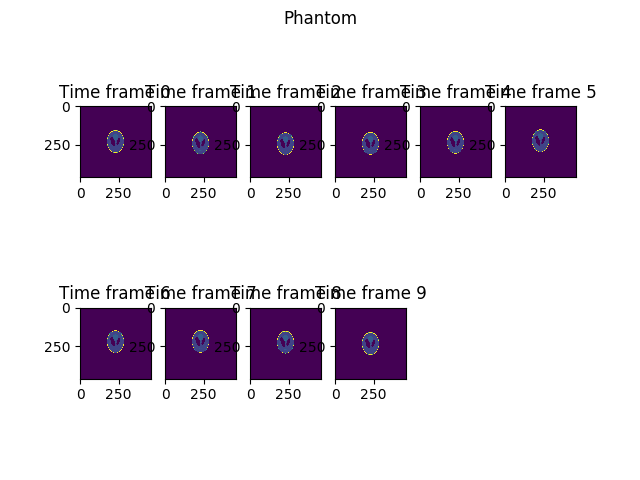
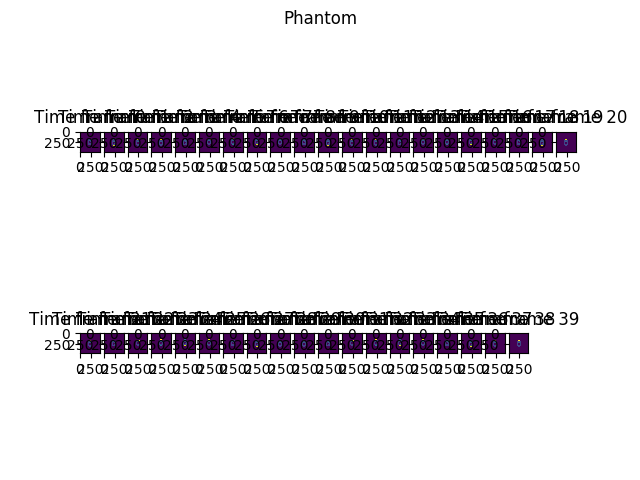
Ons model en gaten werken allebei!

Changed region(s): [[0.0625, 0.1562, 1.0, 0.4375], [0.0625, 0.5938, 0.9062, 0.8438]]

diff --git a/STIROefeningManon/MotionModelProjSpaceNoSTIR/GatingNoSTIR.py b/STIROefeningManon/MotionModelProjSpaceNoSTIR/GatingNoSTIR.py
@@ -1,0 +1,113 @@
+import math
+import matplotlib.pyplot as plt
+import numpy as np
+from skimage.transform import iradon, radon
+import ManonsFunctions as mf 
+import scipy as sp
+
+
+#_________________________CONFIGURATION_______________________________
+#phantom = 'Block'
+phantom = 'Shepp-Logan' 
+noise = False
+#noise = True
+#motion = 'Step' 
+motion = 'Sine'
+stationary = True 
+#stationary = False # Only possible for sinusoidal motion 
+
+nIt = 10
+trueShiftAmplitude = 15 # Kan niet alle waardes aannemen (niet alle shifts worden geprobeerd) + LET OP: kan niet groter zijn dan de lengte van het plaatje (kan de code niet aan) 
+trueOffset = 5
+numFigures = 0 
+duration = 60 # in seconds
+if (motion == 'Step'): nFrames = 2
+else: nFrames = 40
+noiseLevel = 10
+gating = True
+
+dir = './Figures/'
+figSaveDir = mf.make_figSaveDir(dir, motion, phantom, noise, stationary)
+figSaveDir += 'Gating/'
+
+mf.write_Configuration(figSaveDir, phantom, noise, motion, stationary, nIt, trueShiftAmplitude, trueOffset, duration, nFrames, gating)
+
+
+#_________________________MAKE PHANTOM_______________________________
+image2D = mf.make_Phantom(phantom, duration, noiseLevel)
+plt.figure(), plt.title('Original image'), plt.imshow(image2D, interpolation = None, vmin = 0, vmax = np.max(image2D)), plt.savefig(figSaveDir + 'Fig{}_TrueShift{}_phantom.png'.format(numFigures, trueShiftAmplitude)), plt.close()
+numFigures += 1
+
+
+#_________________________ADD MOTION_______________________________ 
+nonGatedPhantomList, nonGatedSurSignal, nonGatedShiftList = mf.move_Phantom(motion, nFrames, trueShiftAmplitude, trueOffset, image2D, stationary)
+
+
+#_________________________GATING_______________________________ 
+maxSurSignal = np.max(nonGatedSurSignal) 
+minSurSignal = np.min(nonGatedSurSignal)
+gateMin = minSurSignal
+gateMax = minSurSignal + 0.35*(maxSurSignal - minSurSignal)
+surSignal, phantomList, shiftList = mf.gating(nonGatedSurSignal, nonGatedPhantomList, nonGatedShiftList, gateMin, gateMax)
+
+# Visualization of gating 
+x = np.arange(0, len(nonGatedPhantomList), 0.1)
+plt.plot(range(len(nonGatedSurSignal)), nonGatedSurSignal, 'bo', label = 'Surrogate signal', markersize = 3), plt.title('Sinusoidal phantom shifts'), plt.xlabel('Time frame'), plt.ylabel('Shift')
+plt.plot(range(len(nonGatedShiftList)), nonGatedShiftList, 'ro', label = 'True motion', markersize = 3) 
+plt.axhline(y = gateMin, color = 'grey', label = 'Respiratory gating')
+plt.axhline(y = gateMax, color = 'grey')
+plt.axis([0, len(nonGatedPhantomList), -trueShiftAmplitude - 5, trueShiftAmplitude + trueOffset])
+plt.fill_between(x, gateMin, gateMax, color='grey', alpha='0.5')
+plt.legend(loc = 0), plt.savefig(figSaveDir + 'Fig{}_TrueShift{}_shiftList.png'.format(numFigures, trueShiftAmplitude)), plt.close()
+numFigures += 1 
+
+
+#_________________________MEASUREMENT_______________________________
+iAngles = np.linspace(0, 360, 120)[:-1]
+
+measList = []
+for iFrame in range(len(phantomList)):
+    meas = radon(phantomList[iFrame][0,:,:], iAngles) 
+    if (iFrame == 0): measNoNoise = meas
+    if (noise): 
+        meas = sp.random.poisson(meas)
+    if (iFrame == 0): measWithNoise = meas
+    measList.append(meas) 
+
+plt.subplot(1,2,1), plt.title('Without noise'), plt.imshow(measNoNoise, interpolation=None, vmin = 0, vmax = noiseLevel)
+plt.subplot(1,2,2), plt.title('With noise'), plt.imshow(measWithNoise, interpolation=None, vmin = 0, vmax = noiseLevel)
+plt.suptitle('Time Frame 1'), plt.savefig(figSaveDir + 'Fig{}_TrueShift{}_measurementsWithWithoutNoise.png'.format(numFigures, trueShiftAmplitude)), plt.close()
+numFigures += 1 
+
+
+#_________________________INITIAL GUESS_______________________________
+guess = np.ones(np.shape(phantomList[0]))[0,:,:]
+plt.figure(), plt.title('Initial guess'), plt.imshow(guess, interpolation = None, vmin = 0, vmax = np.max(image2D)), plt.savefig(figSaveDir + 'Fig{}_TrueShift{}_InitialGuess.png'.format(numFigures, trueShiftAmplitude)), plt.close() 
+numFigures += 1
+
+
+#_________________________NORMALIZATION_______________________________
+normSino = np.ones(np.shape(measList[0]))
+norm = iradon(normSino, iAngles, filter = None) # We willen nu geen ramp filter
+
+
+#_________________________NESTED EM LOOP_______________________________
+for iIt in range(nIt): 
+    for iFrame in range(len(surSignal)): 
+        guessSinogram = radon(guess, iAngles)
+        error = measList[iFrame]/guessSinogram 
+        error[np.isnan(error)] = 0
+        error[np.isinf(error)] = 0
+        error[error > 1E10] = 0;
+        error[error < 1E-10] = 0
+        errorBck = iradon(error, iAngles, filter = None) 
+        guess *= errorBck 
+    guess /= norm 
+    countIt = iIt+1 
+
+    plt.figure(), plt.title('Guess after {0} iteration(s)'.format(iIt+1)), plt.imshow(guess, interpolation = None, vmin = 0, vmax = np.max(image2D)), plt.savefig(figSaveDir + 'Fig{}_TrueShift{}_finalImage.png'.format(numFigures, trueShiftAmplitude)), plt.close()
+    numFigures += 1  
+
+plt.figure(), plt.subplot(1,2,1), plt.title('Original Image'), plt.imshow(image2D, interpolation=None, vmin = 0, vmax = np.max(image2D))
+plt.subplot(1,2,2), plt.title('Reconstructed Image'), plt.imshow(guess, interpolation=None, vmin = 0, vmax = np.max(image2D)), plt.savefig(figSaveDir + 'Fig{}_TrueShift{}_originalAndRecon.png'.format(numFigures, trueShiftAmplitude)), plt.close() 
+numFigures += 1 

diff --git a/STIROefeningManon/MotionModelProjSpaceNoSTIR/MotionModelProjSpaceNoSTIR.py b/STIROefeningManon/MotionModelProjSpaceNoSTIR/MotionModelProjSpaceNoSTIR.py
@@ -14,21 +14,23 @@ motion = 'Sine'
 stationary = True 
 #stationary = False # Only possible for sinusoidal motion 
 
-nIt = 30
+nIt = 10
 trueShiftAmplitude = 15 # Kan niet alle waardes aannemen (niet alle shifts worden geprobeerd) + LET OP: kan niet groter zijn dan de lengte van het plaatje (kan de code niet aan) 
 trueOffset = 5
 numFigures = 0 
 duration = 60 # in seconds
 if (motion == 'Step'): nFrames = 2
-else: nFrames = 10
+else: nFrames = 40
+noiseLevel = 10 
+gating = False 
 
 dir = './Figures/'
 figSaveDir = mf.make_figSaveDir(dir, motion, phantom, noise, stationary)
 
-mf.write_Configuration(figSaveDir, phantom, noise, motion, stationary, nIt, trueShiftAmplitude, trueOffset, duration, nFrames)
+mf.write_Configuration(figSaveDir, phantom, noise, motion, stationary, nIt, trueShiftAmplitude, trueOffset, duration, nFrames, gating)
 
 #_________________________MAKE PHANTOM_______________________________
-image2D = mf.make_Phantom(phantom, duration)
+image2D = mf.make_Phantom(phantom, duration, noiseLevel)
 plt.figure(), plt.title('Original image'), plt.imshow(image2D, interpolation = None, vmin = 0, vmax = np.max(image2D)), plt.savefig(figSaveDir + 'Fig{}_TrueShift{}_phantom.png'.format(numFigures, trueShiftAmplitude)), plt.close()
 numFigures += 1
  
@@ -60,8 +62,8 @@ for iFrame in range(nFrames):
 plt.suptitle('Measurements'), plt.savefig(figSaveDir + 'Fig{}_TrueShift{}_measurements.png'.format(numFigures, trueShiftAmplitude)), plt.close()
 numFigures += 1 
 
-plt.subplot(1,2,1), plt.title('Without noise'), plt.imshow(measNoNoise, interpolation=None, vmin = 0, vmax = 1000)
-plt.subplot(1,2,2), plt.title('With noise'), plt.imshow(measWithNoise, interpolation=None, vmin = 0, vmax = 1000)
+plt.subplot(1,2,1), plt.title('Without noise'), plt.imshow(measNoNoise, interpolation=None, vmin = 0, vmax = noiseLevel)
+plt.subplot(1,2,2), plt.title('With noise'), plt.imshow(measWithNoise, interpolation=None, vmin = 0, vmax = noiseLevel)
 plt.suptitle('Time Frame 1'), plt.savefig(figSaveDir + 'Fig{}_TrueShift{}_measurementsWithWithoutNoise.png'.format(numFigures, trueShiftAmplitude)), plt.close()
 numFigures += 1 
 

diff --git a/STIROefeningManon/MotionModelProjSpaceNoSTIR/ManonsFunctions.py b/STIROefeningManon/MotionModelProjSpaceNoSTIR/ManonsFunctions.py
@@ -11,7 +11,7 @@ from skimage import data_dir
 from skimage.io import imread
 import numpy as np
 import math
-def make_Phantom(phantom, duration): 
+def make_Phantom(phantom, duration, noiseLevel): 
     if phantom == 'Block': 
         image = np.zeros((160,160))
         image[65:95, 65:95] = 1 
@@ -27,7 +27,7 @@ def make_Phantom(phantom, duration):
         image = np.concatenate((tmpX, image), axis = 1)
         image = np.concatenate((image, tmpX), axis = 1)
 
-    image *= 1000*duration/np.sum(image) 
+    image *= noiseLevel*duration/np.sum(image) # number of total counts per second times duration divided by the sum of the image 
 
     return image 
 
@@ -78,7 +78,7 @@ def move_Phantom(motion, nFrames, trueShiftAmplitude, trueOffset, image, station
 
     return (phantomList, surSignal, shiftList) 
 
-def write_Configuration(figSaveDir, phantom, noise, motion, stationary, nIt, trueShiftAmplitude, trueOffset, duration, nFrames): 
+def write_Configuration(figSaveDir, phantom, noise, motion, stationary, nIt, trueShiftAmplitude, trueOffset, duration, nFrames, gating): 
     file = open(figSaveDir + "Configuratie.txt", "w")
     file.write("Phantom: {}\n".format(phantom))
     file.write("Noise: {}\n".format(noise))
@@ -89,4 +89,17 @@ def write_Configuration(figSaveDir, phantom, noise, motion, stationary, nIt, tru
     file.write("True offset (motion model): {}\n".format(trueOffset))
     file.write("Scan duration: {}\n".format(duration))
     file.write("Number of time frames: {}\n".format(nFrames))
+    file.write("Gating: {}\n".format(gating))
     file.close()
+
+def gating(nonGatedSurSignal, nonGatedPhantomList, nonGatedShiftList, gateMin, gateMax): 
+    surSignal = []
+    phantomList = []
+    shiftList = []
+    for i in range(len(nonGatedSurSignal)): 
+        if ((nonGatedSurSignal[i] <= gateMax) and (nonGatedSurSignal[i] >= gateMin)): 
+            surSignal.append(nonGatedSurSignal[i])
+            phantomList.append(nonGatedPhantomList[i])
+            shiftList.append(nonGatedShiftList[i])
+    
+    return (surSignal, phantomList, shiftList) 
